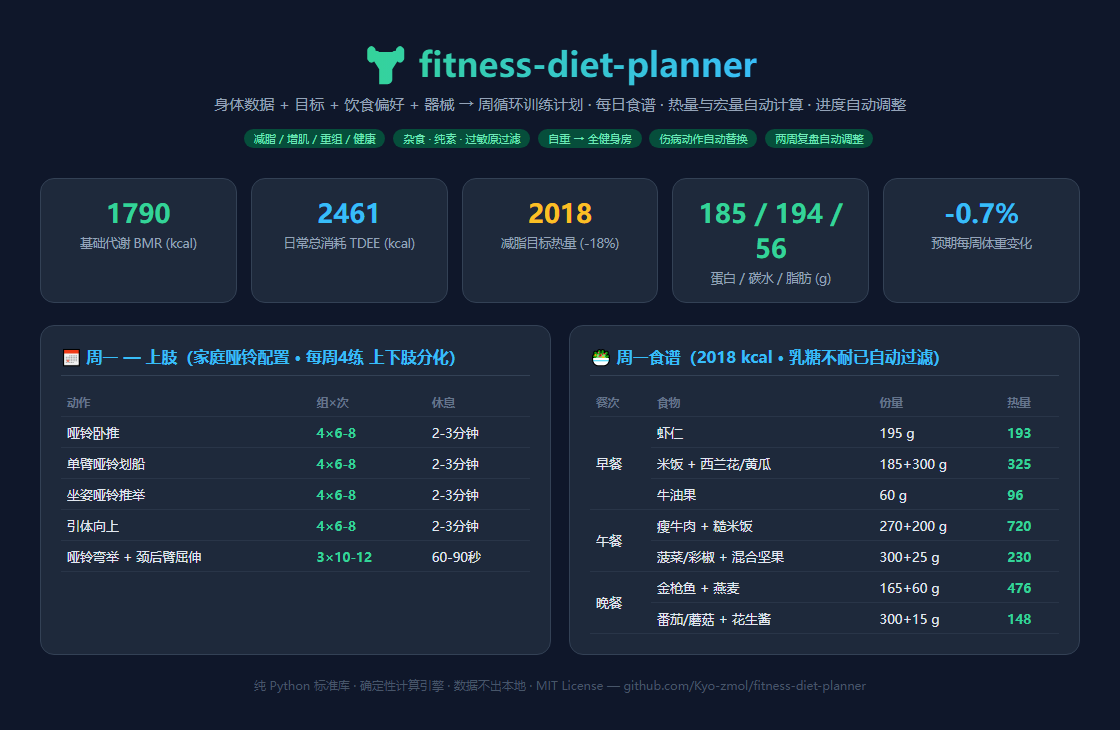
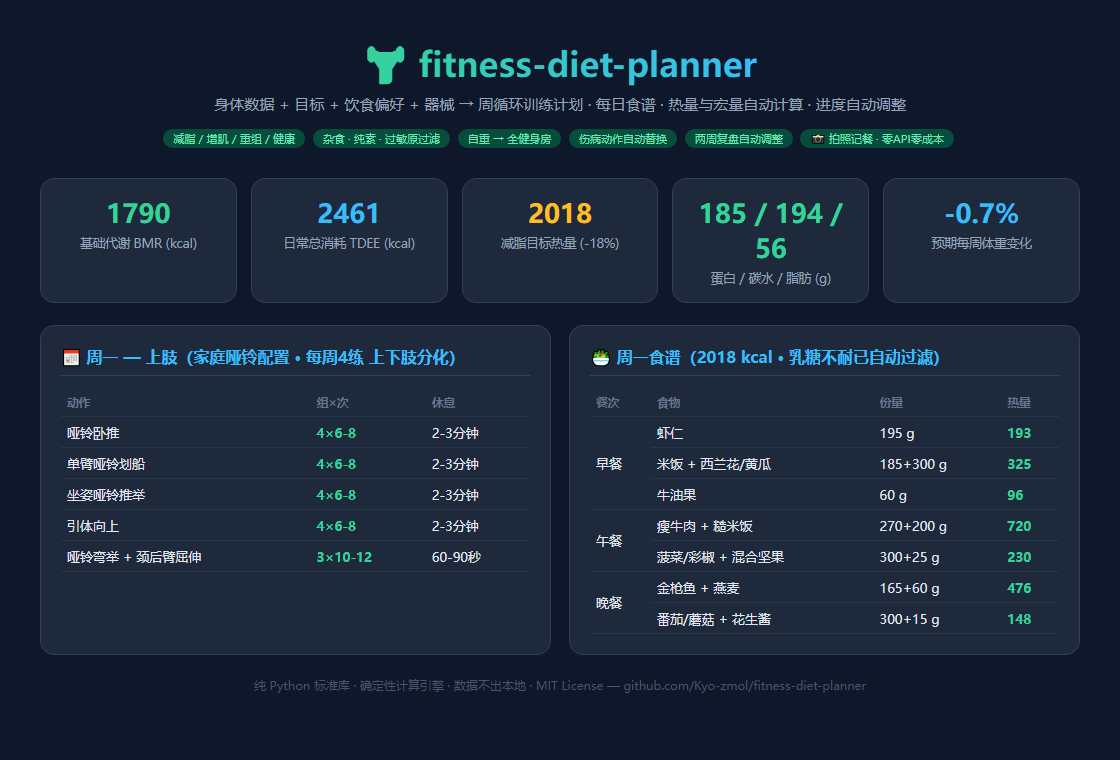
feat: photo meal logging - vision-based dish recognition, Chinese dish DB, log/summary subcommands, food_log.csv

diff --git a/scripts/plan_calculator.py b/scripts/plan_calculator.py
@@ -10,7 +10,9 @@ Subcommands:
 Pure standard library. All numbers are rounded deterministically.
 """
 import argparse
+import csv
 import json
+import os
 import sys
 from datetime import date, datetime
 
@@ -81,6 +83,37 @@ FOODS = [
     {"name": "花生酱", "cat": "F", "kcal": 588, "p": 25.0, "c": 20.0, "f": 50.0, "tags": set(), "alg": {"nuts"}},
     {"name": "橄榄油", "cat": "F", "kcal": 884, "p": 0.0, "c": 0.0, "f": 100.0, "tags": set(), "alg": set()},
     {"name": "芝麻", "cat": "F", "kcal": 559, "p": 19.0, "c": 24.0, "f": 46.0, "tags": set(), "alg": set()},
+]
+
+
+# ---------------------------------------------------------------- cooked dish DB (per 100 g)
+DISHES = [
+    {"name": "番茄炒蛋", "kcal": 120, "p": 6.0, "c": 4.0, "f": 9.0},
+    {"name": "宫保鸡丁", "kcal": 190, "p": 12.0, "c": 8.0, "f": 12.0},
+    {"name": "麻婆豆腐", "kcal": 120, "p": 8.0, "c": 5.0, "f": 8.0},
+    {"name": "红烧肉", "kcal": 480, "p": 13.0, "c": 10.0, "f": 44.0},
+    {"name": "清蒸鱼", "kcal": 105, "p": 18.0, "c": 1.0, "f": 3.0},
+    {"name": "蛋炒饭", "kcal": 170, "p": 6.0, "c": 25.0, "f": 6.0},
+    {"name": "牛肉面", "kcal": 95, "p": 4.0, "c": 14.0, "f": 2.5},
+    {"name": "猪肉饺子", "kcal": 220, "p": 8.0, "c": 25.0, "f": 10.0},
+    {"name": "肉包子", "kcal": 230, "p": 8.0, "c": 30.0, "f": 8.0},
+    {"name": "白粥", "kcal": 46, "p": 1.0, "c": 10.0, "f": 0.3},
+    {"name": "甜豆浆", "kcal": 44, "p": 2.0, "c": 8.0, "f": 1.5},
+    {"name": "煎饼果子", "kcal": 240, "p": 7.0, "c": 30.0, "f": 10.0},
+    {"name": "肉夹馍", "kcal": 250, "p": 11.0, "c": 30.0, "f": 10.0},
+    {"name": "火锅(平均)", "kcal": 150, "p": 7.0, "c": 8.0, "f": 10.0},
+    {"name": "烤羊肉串", "kcal": 250, "p": 17.0, "c": 3.0, "f": 19.0},
+    {"name": "凯撒沙拉", "kcal": 150, "p": 4.0, "c": 8.0, "f": 11.0},
+    {"name": "披萨", "kcal": 266, "p": 11.0, "c": 33.0, "f": 10.0},
+    {"name": "汉堡", "kcal": 295, "p": 13.0, "c": 28.0, "f": 15.0},
+    {"name": "薯条", "kcal": 312, "p": 3.4, "c": 41.0, "f": 15.0},
+    {"name": "可乐", "kcal": 43, "p": 0.0, "c": 10.6, "f": 0.0},
+    {"name": "珍珠奶茶", "kcal": 80, "p": 1.0, "c": 15.0, "f": 2.5},
+    {"name": "奶油蛋糕", "kcal": 350, "p": 5.0, "c": 45.0, "f": 18.0},
+    {"name": "面条(煮)", "kcal": 110, "p": 4.0, "c": 22.0, "f": 0.5},
+    {"name": "炒青菜", "kcal": 60, "p": 2.0, "c": 5.0, "f": 4.0},
+    {"name": "酸辣土豆丝", "kcal": 90, "p": 2.0, "c": 14.0, "f": 3.5},
+    {"name": "西红柿鸡蛋面", "kcal": 100, "p": 4.0, "c": 15.0, "f": 3.0},
 ]
 
 # ---------------------------------------------------------------- exercise DB
@@ -945,6 +978,118 @@ def render_checkin_md(r):
     return "\n".join(L)
 
 
+# ---------------------------------------------------------------- food logging (photo / text)
+FOOD_LOG_HEADER = ["date", "meal", "name", "grams", "kcal", "p", "c", "f", "source"]
+
+
+def find_food(name):
+    pool = FOODS + DISHES
+    for f in pool:
+        if f["name"] == name:
+            return f
+    for f in pool:
+        if name and (name in f["name"] or f["name"] in name):
+            return f
+    return None
+
+
+def log_meal(items, log_path, meal="auto", when=None):
+    """items: list of {"name": str, "grams": float} or {"name": str, "kcal":..,"p":..,"c":..,"f":..} (vision-estimated).
+    Returns (rows, totals)."""
+    rows, totals = [], {"kcal": 0, "p": 0, "c": 0, "f": 0}
+    today = when or date.today().isoformat()
+    for it in items:
+        name = it.get("name", "").strip()
+        if not name:
+            continue
+        db = find_food(name)
+        if db is not None and it.get("grams"):
+            g = it["grams"]
+            row = {"date": today, "meal": meal, "name": db["name"], "grams": g,
+                   "kcal": round(db["kcal"] * g / 100), "p": round(db["p"] * g / 100, 1),
+                   "c": round(db["c"] * g / 100, 1), "f": round(db["f"] * g / 100, 1),
+                   "source": "db"}
+        else:
+            row = {"date": today, "meal": meal, "name": name, "grams": it.get("grams", ""),
+                   "kcal": round(it.get("kcal", 0)), "p": round(it.get("p", 0), 1),
+                   "c": round(it.get("c", 0), 1), "f": round(it.get("f", 0), 1),
+                   "source": "vision-est"}
+        rows.append(row)
+        for k in totals:
+            totals[k] += row[k]
+    for k in totals:
+        totals[k] = round(totals[k], 1)
+    new_file = not os.path.exists(log_path)
+    with open(log_path, "a", encoding="utf-8", newline="") as fh:
+        w = csv.DictWriter(fh, fieldnames=FOOD_LOG_HEADER)
+        if new_file:
+            w.writeheader()
+        w.writerows(rows)
+    return rows, totals
+
+
+def read_log(log_path, when=None):
+    if not os.path.exists(log_path):
+        return []
+    with open(log_path, encoding="utf-8") as fh:
+        rows = list(csv.DictReader(fh))
+    if when:
+        rows = [r for r in rows if r["date"] == when]
+    return rows
+
+
+def render_log_md(rows, totals, targets=None):
+    L = ["## \U0001F4F8 本次记录", "", "| 食物 | 份量(g) | 热量 | P | C | F | 来源 |", "|---|---|---|---|---|---|---|"]
+    for r in rows:
+        L.append(f"| {r['name']} | {r['grams']} | {r['kcal']} | {r['p']} | {r['c']} | {r['f']} | {r['source']} |")
+    L.append(f"| **合计** |  | **{totals['kcal']}** | **{totals['p']}** | **{totals['c']}** | **{totals['f']}** |  |")
+    if targets:
+        L += ["", "### 与今日目标对照", "", "| 项目 | 已摄入 | 目标 | 剩余 |", "|---|---|---|---|"]
+        for label, key, tgt in (("热量", "kcal", targets["target_kcal"]), ("蛋白质", "p", targets["protein_g"]),
+                                ("碳水", "c", targets["carb_g"]), ("脂肪", "f", targets["fat_g"])):
+            L.append(f"| {label} | {totals[key]} | {tgt} | {round(tgt - totals[key])} |")
+    return "\n".join(L)
+
+
+def cmd_log(args):
+    items = json.loads(args.items) if args.items else json.load(open(args.items_file, encoding="utf-8"))
+    rows, totals = log_meal(items, args.log, args.meal, args.date)
+    targets = None
+    if args.plan:
+        targets = json.load(open(args.plan, encoding="utf-8"))["targets"]
+        day_rows = read_log(args.log, rows[0]["date"])
+        t2 = {"kcal": 0, "p": 0, "c": 0, "f": 0}
+        for r in day_rows:
+            for k in t2:
+                t2[k] += float(r[k])
+        totals = {k: round(v, 1) for k, v in t2.items()}
+    print(render_log_md(rows, totals, targets))
+
+
+def cmd_summary(args):
+    when = args.date or date.today().isoformat()
+    rows = read_log(args.log, when)
+    totals = {"kcal": 0, "p": 0, "c": 0, "f": 0}
+    for r in rows:
+        for k in totals:
+            totals[k] += float(r[k])
+    targets = None
+    if args.plan:
+        targets = json.load(open(args.plan, encoding="utf-8"))["targets"]
+    L = [f"# \U0001F4CA {when} 饮食核对", ""]
+    if not rows:
+        L.append("当日暂无记录。")
+        print("\n".join(L))
+        return
+    L += render_log_md(rows, totals, targets).split("\n")[2:]
+    if targets:
+        over = totals["kcal"] - targets["target_kcal"]
+        verdict = "✅ 热量在目标内" if over <= 0 else f"⚠ 超出目标 {over} kcal"
+        p_ok = "✅" if totals["p"] >= targets["protein_g"] * 0.9 else "⚠ 偏低"
+        L += ["", f"**判定**：{verdict}；蛋白质 {totals['p']}/{targets['protein_g']} g {p_ok}"]
+    print("\n".join(L))
+
+
 # ---------------------------------------------------------------- cli
 def cmd_template(_args):
     tpl = {
@@ -1032,8 +1177,20 @@ def main():
     c.add_argument("--strength-stalled", action="store_true")
     c.add_argument("--save", action="store_true")
     c.add_argument("--out-md")
+    lg = sub.add_parser("log")
+    lg.add_argument("--items")
+    lg.add_argument("--items-file")
+    lg.add_argument("--log", required=True)
+    lg.add_argument("--meal", default="auto")
+    lg.add_argument("--date")
+    lg.add_argument("--plan")
+    sm = sub.add_parser("summary")
+    sm.add_argument("--log", required=True)
+    sm.add_argument("--date")
+    sm.add_argument("--plan")
     args = ap.parse_args()
-    {"template": cmd_template, "generate": cmd_generate, "checkin": cmd_checkin}[args.cmd](args)
+    {"template": cmd_template, "generate": cmd_generate, "checkin": cmd_checkin,
+     "log": cmd_log, "summary": cmd_summary}[args.cmd](args)
 
 
 if __name__ == "__main__":

diff --git a/scripts/selftest.py b/scripts/selftest.py
@@ -167,5 +167,25 @@ class TestCheckin(unittest.TestCase):
         self.assertGreaterEqual(r["new_kcal"], p["targets"]["floor"])
 
 
+class TestFoodLog(unittest.TestCase):
+    def test_db_match_and_totals(self):
+        with tempfile.TemporaryDirectory() as d:
+            logp = str(Path(d) / "food_log.csv")
+            rows, tot = pc.log_meal([{"name": "米饭", "grams": 200}, {"name": "番茄炒蛋", "grams": 150}], logp, "午餐")
+            self.assertEqual(rows[0]["name"], "米饭(蒸)")
+            self.assertEqual(rows[0]["source"], "db")
+            self.assertAlmostEqual(tot["kcal"], 440, delta=3)
+            self.assertEqual(len(pc.read_log(logp)), 2)
+
+    def test_vision_est_fallback(self):
+        with tempfile.TemporaryDirectory() as d:
+            logp = str(Path(d) / "food_log.csv")
+            rows, tot = pc.log_meal([{"name": "食堂神秘菜", "kcal": 450, "p": 28, "c": 12, "f": 32}], logp)
+            self.assertEqual(rows[0]["source"], "vision-est")
+            self.assertEqual(tot["kcal"], 450)
+            self.assertEqual(tot["p"], 28)
+
+
 if __name__ == "__main__":
     unittest.main(verbosity=2)
+

diff --git a/SKILL.md b/SKILL.md
@@ -1,6 +1,6 @@
 ---
 name: fitness-diet-planner
-description: Generate personalized weekly training plans and daily meal plans from body data, fitness goals, diet preferences, and available equipment, with automatic calorie/macro calculation and progress-based adjustments. Use when someone asks for a workout/diet plan, wants to lose fat or build muscle with a concrete schedule and meals, or asks to review/adjust an existing plan this skill generated. Do not use for medical nutrition therapy, injury rehabilitation prescriptions, or general one-off nutrition questions.
+description: Generate personalized weekly training plans and daily meal plans from body data, fitness goals, diet preferences, and available equipment, with automatic calorie/macro calculation and progress-based adjustments. Also logs meals from food photos or text descriptions using the agent's own vision (no external API), matching a built-in ingredient + Chinese-dish database and comparing intake against plan targets. Use when someone asks for a workout/diet plan, wants to lose fat or build muscle with a concrete schedule and meals, shares a food photo to count calories, or asks to review/adjust an existing plan this skill generated. Do not use for medical nutrition therapy, injury rehabilitation prescriptions, or general one-off nutrition questions.
 metadata:
   short-description: Personalized training + diet plan with calorie/macro math
 ---
@@ -60,6 +60,20 @@ A delivered plan is complete only if:
 4. Meals cover every day of the week, respect diet/allergy filters (no pork for no_pork, no animal products for vegan, zero allergen hits), and distribute kcal across the requested meals_per_day.
 5. Expected weekly weight-change rate is stated, and the checkin command is explained to the user.
 6. All warnings surfaced; disclaimer present.
+
+## Photo meal logging (拍照记餐)
+When the user shares a food photo (or describes a meal in text):
+1. Use your own vision to identify each dish and estimate portions. Apply the portion cues in references/food-photo-guide.md (e.g. 1 household bowl of rice ≈ 150-200 g, 1 palm of meat/fish ≈ 100-120 g). List what you see and the estimated grams so the user can correct you.
+2. Log deterministically:
+   ```
+   python <skill>/scripts/plan_calculator.py log --log fitness-plan/food_log.csv --meal 午餐 --plan fitness-plan/plan.json --items '[{"name":"米饭","grams":200},{"name":"番茄炒蛋","grams":150}]'
+   ```
+   Known names are matched against the built-in ingredient + Chinese-dish database (`source: db`); anything unrecognized is passed with explicit vision-estimated macros (`source: vision-est`). Never invent DB entries on the fly.
+3. If `--plan` is given, the output shows intake vs. remaining targets for the day; end with `summary` for the daily verdict:
+   ```
+   python <skill>/scripts/plan_calculator.py summary --log fitness-plan/food_log.csv --plan fitness-plan/plan.json
+   ```
+4. Feeding check-ins: when the user asks for a progress check-in, compute average daily intake from food_log.csv (if present) as the adherence evidence instead of asking them to guess.
 
 ## Notes
 - Engine: scripts/plan_calculator.py (stdlib-only, deterministic). Do not edit its formulas to fit a request; change the profile instead.

diff --git a/README.md b/README.md
@@ -24,6 +24,7 @@
 | 🏠 **Equipment-aware training** | Bodyweight-only to full gym; splits auto-selected from 2–6 days/week (full body, upper/lower, PPL); no exercise repeated within a week |
 | 🩹 **Injury-safe swaps** | Knee / shoulder / lower-back / wrist: contraindicated exercises are replaced from candidate lists (or dropped), with safety notes |
 | 🔁 **Progress check-ins** | Report weekly-average weight + adherence every 2 weeks; the engine adjusts calories (never below the floor), prescribes diet breaks, and flags strength stalls |
+| 📸 **Photo meal logging** | Share a food photo — the agent’s own vision identifies dishes and portions, a built-in 65+ ingredient / Chinese-dish database computes calories deterministically, and intake is checked against your daily targets. **No API keys, no external services, zero cost** |
 | 🛡 **Safety rails** | Rejects deficits for pregnancy/lactation, BMI < 17.5, aggressive cuts with ED history; warns for BMI ≥ 30, age < 18 / > 65, diabetes, kidney disease |
 | 🧮 **Deterministic & auditable** | Pure Python standard library — no APIs, no dependencies, no data leaves your machine |
 
@@ -79,6 +80,15 @@ Output lands in `fitness-plan/` in your workspace:
 | `plan.md` | The full readable plan: energy table, daily training tables, 7-day meals, warnings |
 | `plan.json` | Machine-readable plan, consumed by check-ins |
 | `progress.csv` | Your weigh-in log: `date,weight_kg,adherence_pct,training_completed,notes` |
+| `food_log.csv` | Meal log from photos/text: `date,meal,name,grams,kcal,p,c,f,source` |
+
+**Log a meal from a photo** — just send the picture:
+
+> （发一张午餐照片）帮我记一下这顿，看看还剩多少热量额度
+
+The agent identifies dishes, estimates grams (bowl/palm cues), logs to `fitness-plan/food_log.csv` via
+`plan_calculator.py log`, and shows intake vs. remaining targets. Unknown dishes fall back to
+vision-estimated macros, clearly labeled `vision-est`. End the day with `summary` for a verdict.
 
 **Check in** (every 2 weeks, use the 7-day average of fasted morning weigh-ins):
 

diff --git a/references/food-photo-guide.md b/references/food-photo-guide.md
@@ -1,0 +1,29 @@
+# 拍照记餐指南（视觉估重 + 记录规则）
+
+## 工作流程
+1. 用模型自身视觉识别菜品（不需要任何外部 API / 密钥，完全免费）。
+2. 先向用户复述"我看到了什么、估了多少克"，允许纠正，再调用 `log`。
+3. 能匹配内置库（食材 40+ / 中餐菜品 26 种）的用 `{"name","grams"}`，由脚本算宏量（source=db）；
+   匹配不到的整菜（如"食堂红烧排骨"）由视觉直接估宏量，用 `{"name","kcal","p","c","f"}` 传入（source=vision-est）。
+4. 每餐一次 `log`，每天一次 `summary` 核对目标；checkin 时用日志算平均摄入作为执行率证据。
+
+## 份量视觉线索（常见中式餐具）
+| 参照 | 估重 |
+|---|---|
+| 家用米饭一碗（平碗） | 150-200 g |
+| 餐厅大碗面/粉（连汤带料整碗） | 400-600 g |
+| 一盘炒蔬菜 | 200-300 g |
+| 手掌大小的肉/鱼排（不含手指） | 100-120 g |
+| 一块红烧肉/排骨 | 40-60 g |
+| 一个饺子 | 25 g；一个肉包 80-100 g；一个馒头 100 g |
+| 一个鸡蛋 | 50 g |
+| 一听可乐 330 ml | 330 g；一瓶 500 ml | 500 g |
+| 一杯珍珠奶茶（中杯） | 500 g |
+| 披萨一片（12 寸切 8 块） | 110-130 g |
+| 汉堡一个 | 200-250 g |
+
+## 估重原则
+- 宁可报区间（"米饭约 180 g"）也不装精确；用户纠正后以用户为准。
+- 混合菜（盖饭/麻辣香锅）按可见主料拆分：主食 + 蛋白 + 蔬菜分别估。
+- 油脂看不见但热量高：炒菜默认含油 8-10 g/盘，油炸食物脂肪上浮 50%。
+- 照片只有一角或遮挡严重时，明确告知"看不清的部分我按 X 估"，或请用户补描述。
